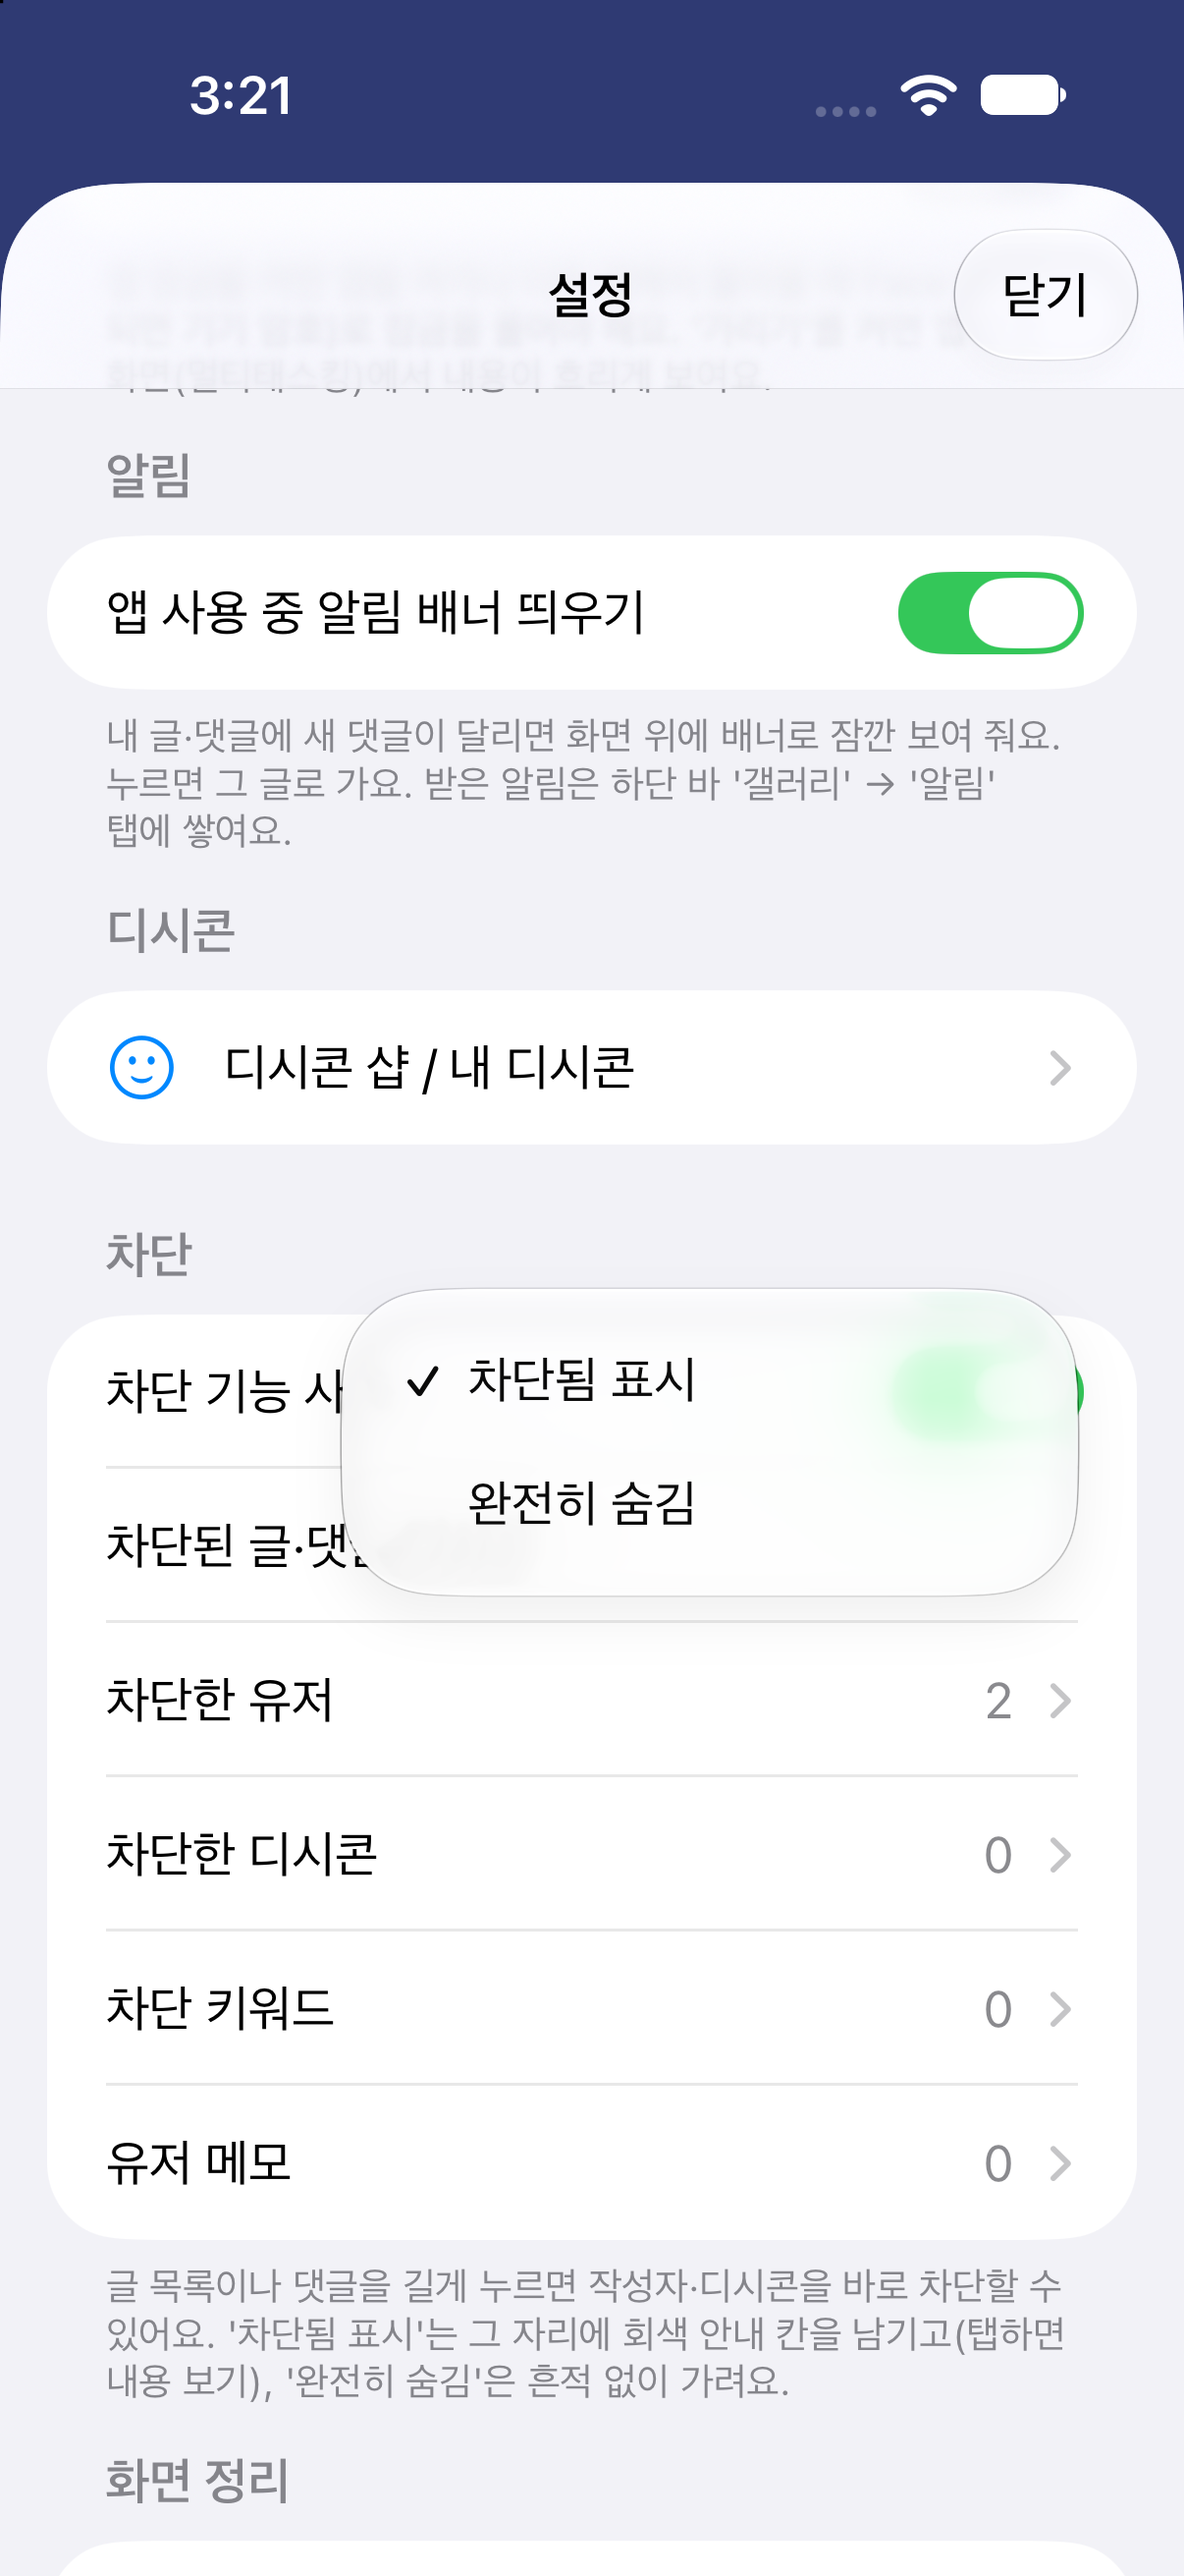
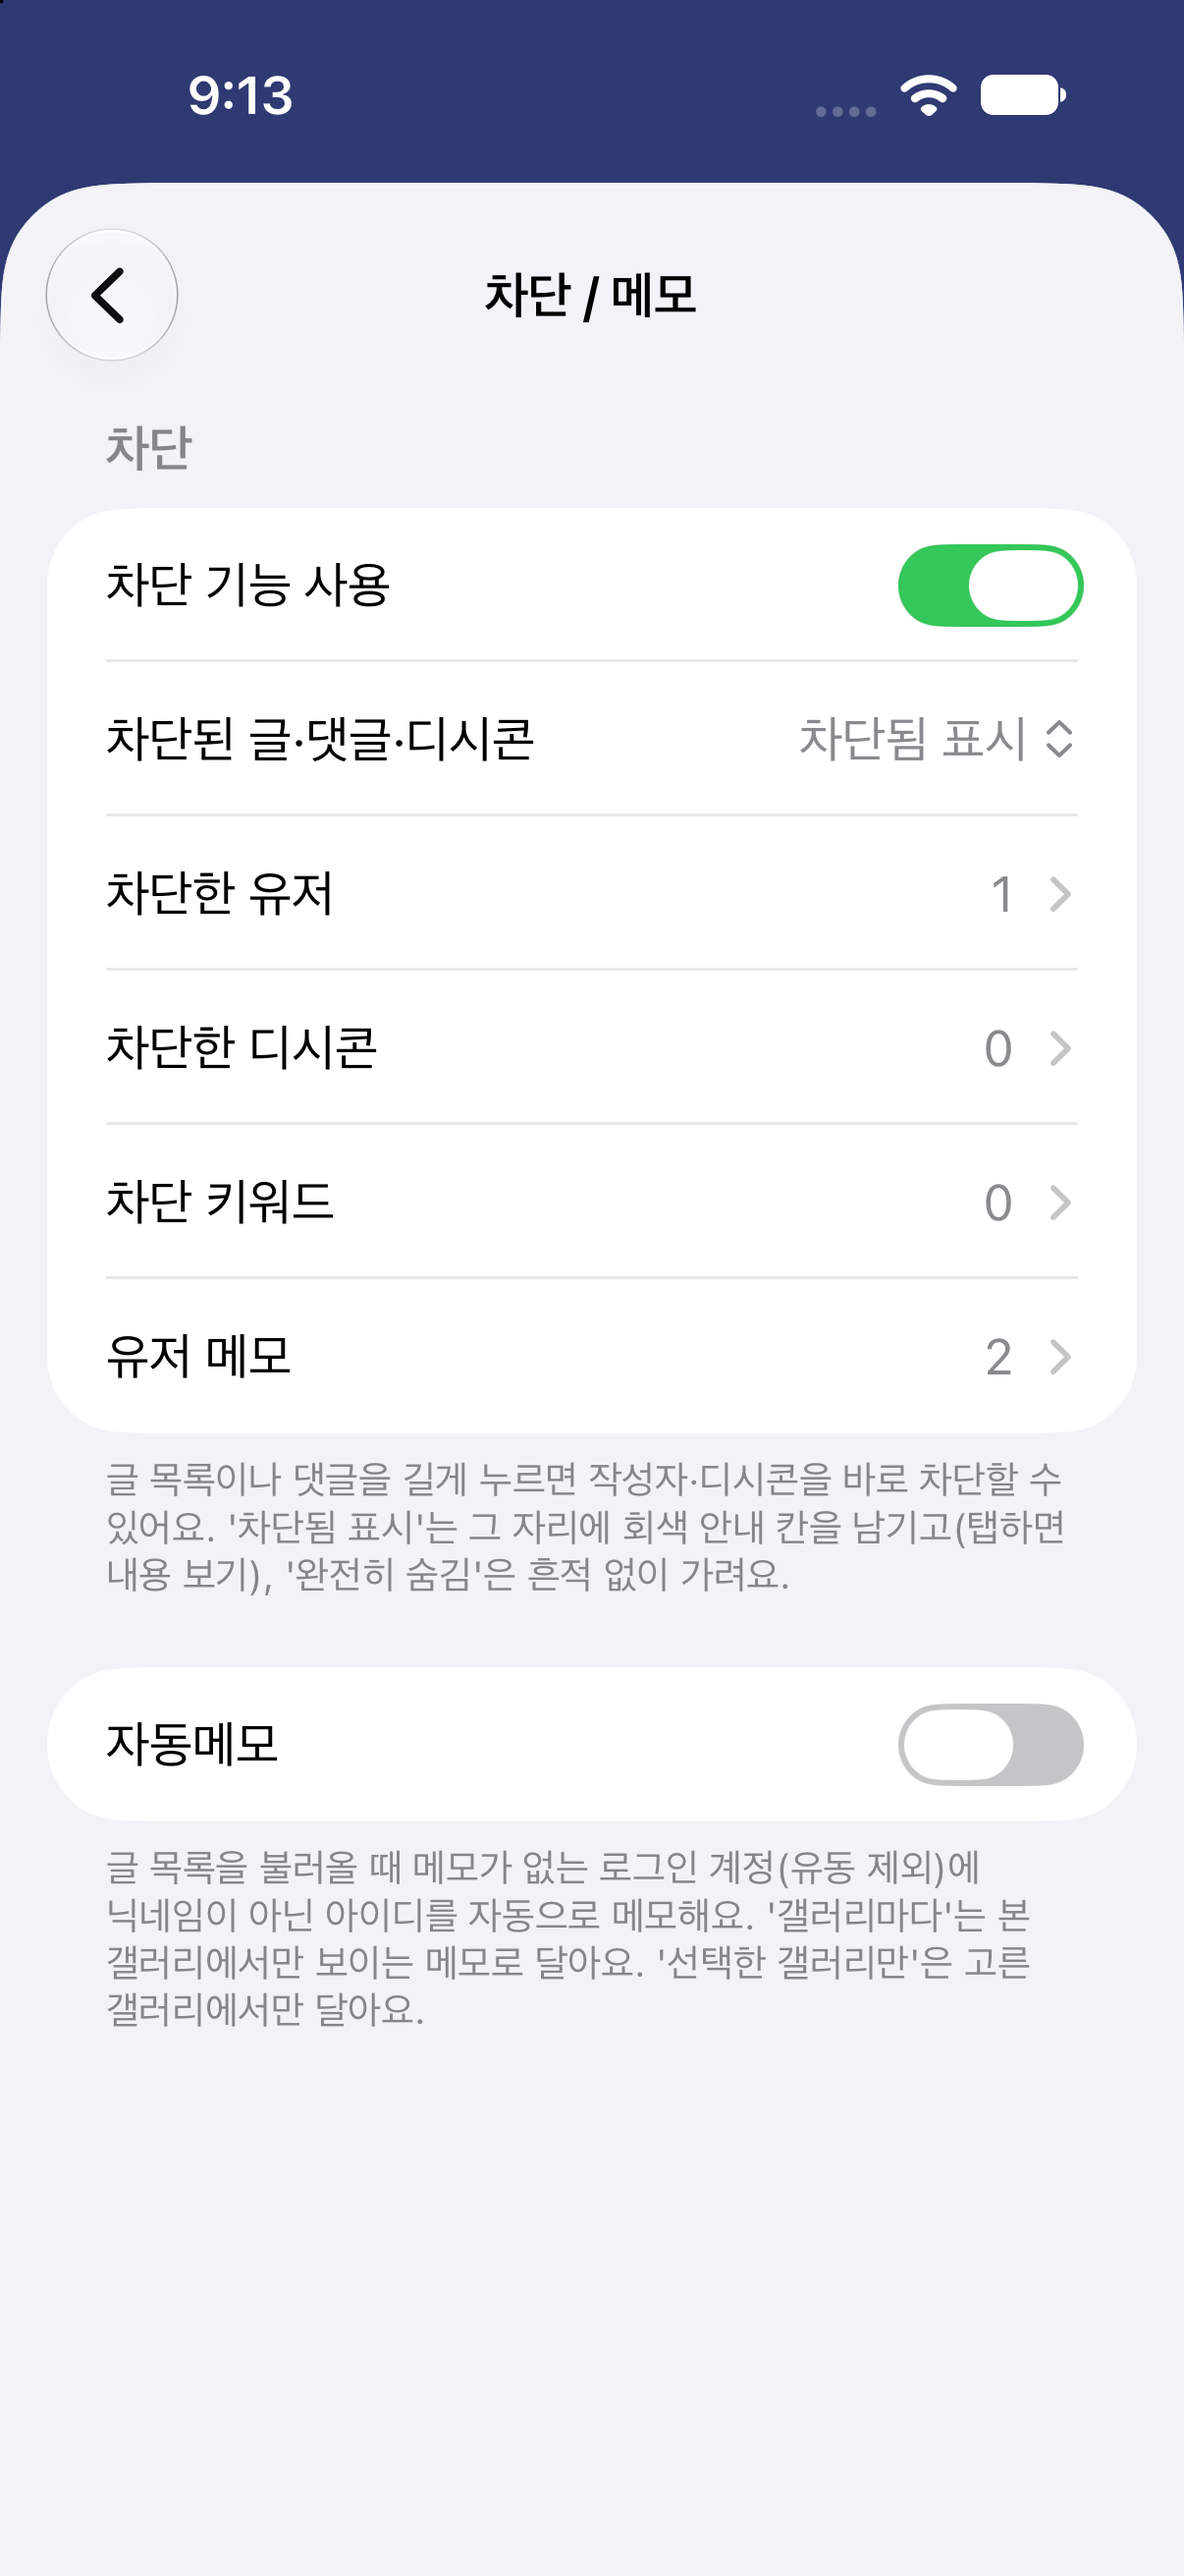
README·FEATURES 새로 쓰고 스크린샷 갱신
- README: 차단·메모, 자동메모, 추천·비추 칸, 댓글 정렬, 개념글 뒤로가기 반영
- FEATURES: 글 읽기·댓글, 차단·메모 섹션 추가, 스크린샷 갤러리 안내
- 스크린샷: 글 목록(iPhone·iPad 세로), 글 보기, 설정, 차단·메모

diff --git a/FEATURES.md b/FEATURES.md
@@ -5,16 +5,19 @@
 
 > ⚠ 디시인사이드와 관계없는 **비공식** 앱입니다. 사이트 구조가 바뀌면 일부 기능이 동작하지 않을 수 있습니다.
 
+> 📌 스크린샷의 갤러리(미국 주식 등)는 앱 설명용 사진을 찍기 위해 Claude가 임의로 고른 갤러리입니다. 제작자가 평소 활동하는 갤러리가 아닙니다.
+
 ## 목차
 
 1. [갤러리 글 목록](#1-갤러리-글-목록)
-2. [앱 내 알림](#2-앱-내-알림)
-3. [계정 저장 · 전환](#3-계정-저장--전환)
-4. [임시저장](#4-임시저장)
-5. [한손 모드](#5-한손-모드)
-6. [차단](#6-차단)
-7. [글 보관함](#7-글-보관함)
-8. [각종 설정](#8-각종-설정)
+2. [글 읽기 · 댓글](#2-글-읽기--댓글)
+3. [차단 · 메모](#3-차단--메모)
+4. [앱 내 알림](#4-앱-내-알림)
+5. [계정 저장 · 전환](#5-계정-저장--전환)
+6. [임시저장](#6-임시저장)
+7. [한손 모드](#7-한손-모드)
+8. [글 보관함](#8-글-보관함)
+9. [각종 설정](#9-각종-설정)
 
 ---
 
@@ -26,8 +29,9 @@
 
 - **말머리 탭**: 글 목록 위에 말머리가 둥근 탭으로 한 줄에 놓입니다. 좌우로 넘겨 고르고, 지금 보고 있는 말머리는 테마 색으로 표시됩니다.
 - **댓글 수**: 제목 바로 뒤에 파란 `[댓글수]`로 보여 줍니다.
-- **컨트롤바**: 계정 · 갤러리 · 개념글 · 검색 · 글쓰기 · 메뉴를 한곳에 모은 버튼 막대입니다. 순서는 설정에서 바꿀 수 있습니다.
+- **컨트롤바**: 계정 · 메뉴 · 개념글 · 검색 · 글쓰기를 한곳에 모은 버튼 막대입니다. 순서는 설정에서 바꿀 수 있습니다.
 - **스크롤하면 숨기기**: 스크롤하는 동안 컨트롤바가 화면 밖으로 들어갔다가, 멈추면 바로 다시 나옵니다.
+- **개념글 뒤로가기**: 개념글 2페이지 이상에서 뒤로 가면 전체글이 아니라 바로 앞 페이지로 갑니다.
 
 ### 기기별 화면
 
@@ -45,7 +49,38 @@
 
 ---
 
-## 2. 앱 내 알림
+## 2. 글 읽기 · 댓글
+
+<p align="center">
+  <img src="docs/images/post-iphone.png" width="280" alt="글 보기와 댓글">
+</p>
+
+- **추천 · 비추 칸**: 개추와 비추를 한 줄에 모았습니다. 실베추 · 펌 버튼이 비추 옆에 붙어 있고, 본인 글이면 수정 · 삭제 버튼이 아래 줄 오른쪽에 나옵니다.
+- **댓글 정렬**: 등록순 · 최신순 · 답글순을 댓글 머리글에서 바로 고릅니다.
+- **댓글 입력**: 댓글창을 누르면 키보드가 올라오고, 입력창이 키보드 바로 위에 고정됩니다.
+- **답글**: 댓글을 누르면 답글 칸이 열립니다.
+- **새로고침**: 글을 다시 불러온 뒤 댓글 쪽으로 이동합니다. 다른 기기에서 쓴 댓글도 보입니다.
+- **사진 보기**: 글 속 사진을 탭하면 전체 화면으로 보고, 확대 · 넘기기 · 원본 저장(움짤 포함)을 할 수 있습니다.
+
+---
+
+## 3. 차단 · 메모
+
+<p align="center">
+  <img src="docs/images/block-settings.png" width="280" alt="차단 메모 설정">
+</p>
+
+- **닉네임을 탭하거나 길게 누르면** 디시 차단 창 대신 앱의 차단 · 메모 메뉴가 뜹니다.
+- **아이디 · IP · 닉네임**으로 차단할 수 있고, 직접 입력해서 추가할 수도 있습니다.
+- 차단할 때 **이 갤러리에서만 / 모든 갤러리에서** 중 범위를 고릅니다.
+- **키워드 차단**, **디시콘 차단**도 됩니다.
+- 차단된 글 · 댓글은 **차단됨 표시**(회색 칸, 탭하면 보기) 또는 **완전히 숨김** 중에서 고릅니다.
+- **유저 메모**: 아이디 · IP · 닉네임에 짧은 메모를 달면 닉네임 옆에 보여 줍니다. 메모도 갤러리별로 따로 달 수 있습니다.
+- **자동메모**: 메모가 없는 로그인 계정(유동 제외)에 닉네임 대신 아이디를 자동으로 메모해 줍니다. 범위는 **모든 갤러리 / 갤러리마다 / 선택한 갤러리만**에서 고릅니다. 글 목록과 글 안의 댓글에 모두 적용됩니다.
+
+---
+
+## 4. 앱 내 알림
 
 | 알림 배너 | 알림 탭 |
 |:---:|:---:|
@@ -57,7 +92,7 @@
 
 ---
 
-## 3. 계정 저장 · 전환
+## 5. 계정 저장 · 전환
 
 <p align="center">
   <img src="docs/images/accounts.png" width="280" alt="계정 설정">
@@ -71,7 +106,7 @@
 
 ---
 
-## 4. 임시저장
+## 6. 임시저장
 
 <p align="center">
   <img src="docs/images/drafts.png" width="280" alt="임시저장 불러오기">
@@ -82,7 +117,7 @@
 
 ---
 
-## 5. 한손 모드
+## 7. 한손 모드
 
 <p align="center">
   <img src="docs/images/one-hand.png" width="280" alt="한손 모드">
@@ -94,22 +129,7 @@
 
 ---
 
-## 6. 차단
-
-| 차단한 유저 | 차단 설정 |
-|:---:|:---:|
-| <img src="docs/images/block-users.png" width="280" alt="차단한 유저 목록"> | <img src="docs/images/block-settings.png" width="280" alt="차단 설정"> |
-
-- **닉네임을 탭하거나 길게 누르면** 디시 차단 창 대신 앱의 차단 · 메모 메뉴가 뜹니다.
-- **아이디 · IP · 닉네임**으로 차단할 수 있고, 직접 입력해서 추가할 수도 있습니다.
-- 차단할 때 **이 갤러리에서만 / 모든 갤러리에서** 중 범위를 고릅니다.
-- **키워드 차단**, **디시콘 차단**도 됩니다.
-- 차단된 글 · 댓글은 **차단됨 표시**(회색 칸, 탭하면 보기) 또는 **완전히 숨김** 중에서 고릅니다.
-- **유저 메모**: 아이디 · IP · 닉네임에 짧은 메모를 달면 닉네임 옆에 보여 줍니다. 메모도 갤러리별로 따로 달 수 있습니다.
-
----
-
-## 7. 글 보관함
+## 8. 글 보관함
 
 <p align="center">
   <img src="docs/images/saved-posts.png" width="280" alt="글 보관함">
@@ -120,7 +140,7 @@
 
 ---
 
-## 8. 각종 설정
+## 9. 각종 설정
 
 <p align="center">
   <img src="docs/images/settings.png" width="280" alt="설정">
@@ -130,7 +150,6 @@
 - **스와이프 뒤로가기**: 화면을 오른쪽으로 쓸어 뒤로 가고, 민감도를 조절합니다. 갤러리 목록에서 쓸면 갤러리 창을 엽니다.
 - **사이트 상단 메뉴 숨기기**: 앱 상단바와 겹치는 디시 헤더를 숨깁니다.
 - **홈 화면 대신 실북갤 순위 보기**
-- **댓글돌이 댓글 숨기기**
 - **컨트롤바 버튼**: 버튼 순서, 가로 · 세로 배치, 스크롤할 때 숨기기, ⋮ 메뉴를 상단바로 옮기기
 - **앱 아이콘 변경**
 - **보안**: Face ID(또는 Touch ID)로 앱 잠금, 앱 전환 화면에서 내용 가리기
@@ -138,8 +157,7 @@
 
 ### 그 밖의 기능
 
-- **사진 보기**: 글 속 사진을 탭하면 전체 화면으로 보고, 확대 · 넘기기 · 원본 저장(움짤 포함)을 할 수 있습니다.
-- **댓글창 고정**: 댓글 입력창이 키보드 바로 위에 붙고, 댓글만 새로고침할 수 있습니다.
 - **갤러리 내 검색**: 말머리 · 검색 범위 · 개념글만 · 최근 검색어
 - **⋮ 메뉴**: 갤러리 즐겨찾기, 갤러리 공지 보기, 갤러리 관리 내역, 링크 공유, 화면 캡처, 화면 정리(요소 숨기기)
+- **캡처**: 보이는 화면 / 전체 페이지 캡처
 - **자짤**: 미리 등록한 사진을 글쓰기 화면에 자동으로 첨부합니다(갤러리별 설정).
